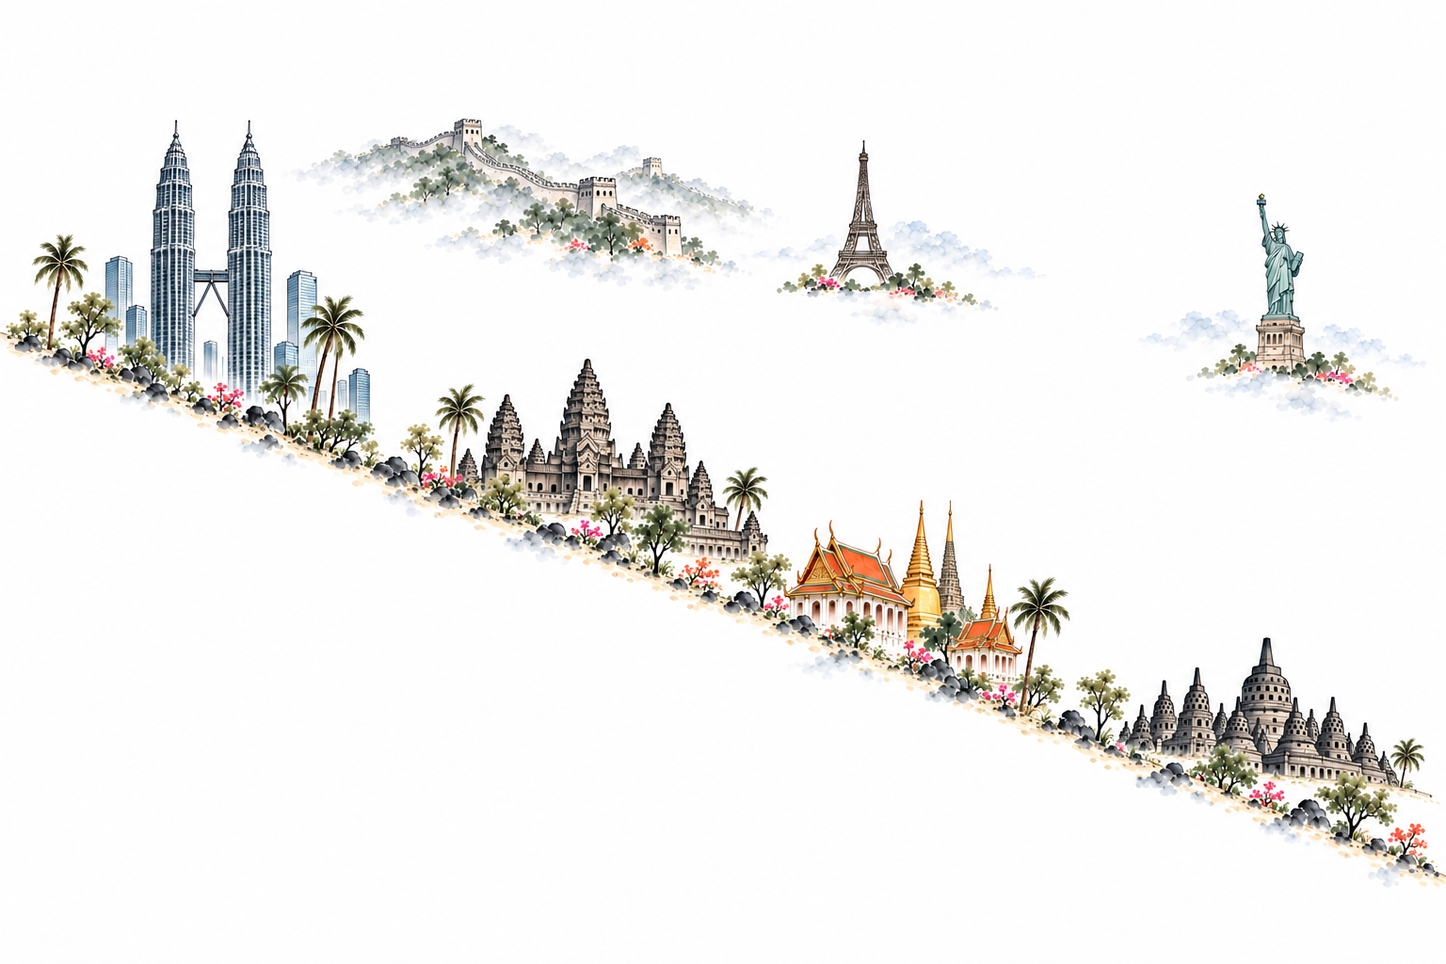
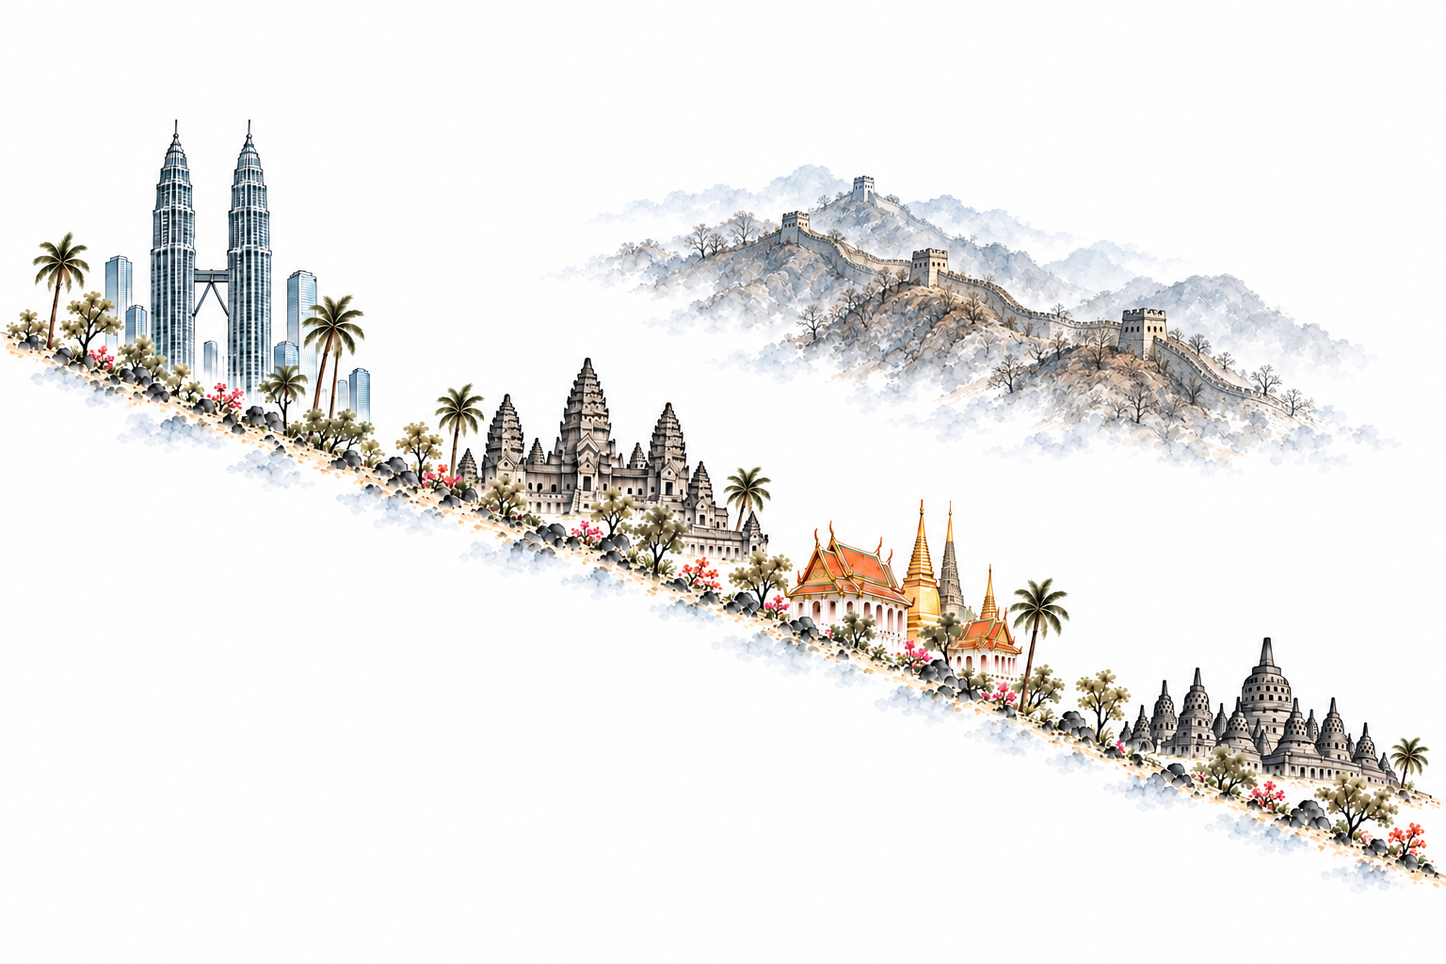
Refine distant Great Wall and assemble v26 landing preview

Changed region(s): [[0.0, 0.1562, 1.0, 0.9375], [0.2188, 0.125, 0.9688, 0.5]]

diff --git a/docs/mockups/20261011_quarter-v26.html b/docs/mockups/20261011_quarter-v26.html
@@ -1,0 +1,87 @@
+<!doctype html>
+<html lang="en"><head><meta charset="utf-8"><meta name="viewport" content="width=device-width,initial-scale=1"><meta name="robots" content="noindex,nofollow"><title>Topic Atlas · Complete band atlas v26</title>
+<style>
+:root{--page:#eee5d2;--surface:#f7efdd;--ink:#35413a;--muted:#6c6c5b;--border:#cfc0a3;--gold:#ae7730}
+*{box-sizing:border-box}
+body{margin:0;background:var(--page);color:var(--ink);font:15px/1.6 system-ui,sans-serif}
+main{max-width:1440px;padding:20px 28px;margin:auto}
+header{display:flex;align-items:center;justify-content:space-between;gap:16px;flex-wrap:wrap}
+h1{font:700 30px 'Songti SC',serif;margin:4px 0}
+small{color:var(--muted)}a{color:var(--gold)}
+.tools{display:flex;gap:10px;align-items:center;flex-wrap:wrap}
+button{font:inherit;color:inherit;cursor:pointer;background:var(--surface);border:1px solid var(--border);border-radius:10px;padding:9px 14px}
+button:focus-visible,a:focus-visible{outline:3px solid var(--gold);outline-offset:3px}
+/* The whole atlas is one SVG with a fixed 1536 x 1024 coordinate system.
+   It scales as a unit, so circles stay circular and vignettes never drift
+   apart or overlap differently on another screen ratio. */
+.atlas{width:min(100%,calc((100svh - 230px) * 1.5));min-width:min(100%,640px);margin:18px auto;border-radius:18px;overflow:hidden;background:#eee3cb}
+.atlas svg{display:block;width:100%;height:auto;cursor:pointer;-webkit-tap-highlight-color:transparent}
+.scope{display:grid;grid-template-columns:repeat(6,minmax(0,1fr));gap:9px}
+.scope button{text-align:left;padding:10px 12px}
+.scope b{display:block;font:700 23px 'Songti SC',serif}
+.scope span{font-size:12px;color:var(--muted)}
+.scope button[aria-pressed=true]{background:#e6d4a3;border:2px solid #9f7029;padding:9px 11px}
+.status{margin:10px 0;color:var(--muted)}
+.notes{font-size:13px;color:var(--muted)}
+#sel path{transition:opacity .25s}
+body.dark{--page:#202622;--surface:#303831;--ink:#eee5d1;--muted:#c9c0ae;--border:#566153;--gold:#e6bf73}
+body.dark .scope button[aria-pressed=true]{background:#665536;color:#fff1d6}
+body.dark .atlas{box-shadow:0 0 0 1px #786b53}
+@media(max-width:900px){main{padding:14px}h1{font-size:26px}.scope b{font-size:21px}.scope button{padding:8px}.scope button[aria-pressed=true]{padding:7px}}
+@media(max-width:600px){main{padding:12px}.atlas{min-width:0;width:100%}.scope{grid-template-columns:repeat(3,minmax(0,1fr))}.tools{font-size:12px}.notes{font-size:12px}}
+@media(prefers-reduced-motion:reduce){#sel path{transition:none}}
+</style></head><body><main>
+<header><div><small>BVSS MTL CL UNIT · DESIGN STUDY 26</small><h1>谈天说地 · Topic Atlas</h1></div>
+<div class="tools"><button id="guide" aria-pressed="false">Show positioning guide</button><button id="theme" aria-pressed="false">Dark surroundings</button><a href="20261010_quarter-v25.html">v25</a><a href="20261011_atlas-moodboard.html">Photo references</a><a href="20261010_quarter-v23.html">v23</a><a href="20261010_quarter-v22.html">v22</a><a href="20261010_quarter-v21.html">v21</a><a href="20261010_quarter-v20.html">v20 concentric</a><a href="20261010_quarter-v13.html">v13 painting</a><a href="20261010_modular-v19.html">v19 sprites</a><a href="20261010_design-history.html">Design history</a></div></header>
+<div class="atlas">
+<svg id="map" viewBox="0 0 1536 1024" role="img" aria-label="Ink and watercolour atlas in parallel diagonal bands from personal life at bottom-left, through family, school, community and Singapore, to ASEAN neighbours and world landmarks.">
+<defs>
+ <radialGradient id="paperA" cx="30%" cy="35%" r="60%"><stop offset="0" stop-color="#faf5e9" stop-opacity=".7"/><stop offset="1" stop-color="#faf5e9" stop-opacity="0"/></radialGradient>
+ <radialGradient id="paperB" cx="95%" cy="85%" r="50%"><stop offset="0" stop-color="#d2b990" stop-opacity=".22"/><stop offset="1" stop-color="#d2b990" stop-opacity="0"/></radialGradient>
+ <filter id="soft" x="-20%" y="-20%" width="140%" height="140%"><feGaussianBlur stdDeviation="26"/></filter>
+ <filter id="mist" x="-20%" y="-20%" width="140%" height="140%"><feGaussianBlur stdDeviation="14"/></filter>
+ <filter id="ink"><feColorMatrix type="saturate" values=".72"/></filter>
+ <filter id="glow" x="-10%" y="-10%" width="120%" height="120%"><feColorMatrix type="saturate" values=".72"/><feGaussianBlur stdDeviation="0"/></filter>
+</defs>
+<rect width="1536" height="1024" fill="#eee3cb"/><rect width="1536" height="1024" fill="url(#paperA)"/><rect width="1536" height="1024" fill="url(#paperB)"/>
+<g id="tint" filter="url(#soft)"></g>
+<g id="sel" filter="url(#soft)"></g>
+<g id="washes" filter="url(#mist)" fill="none" stroke-linecap="round"></g>
+<g id="art" filter="url(#ink)"></g>
+<g id="guides" style="display:none"></g>
+</svg>
+</div>
+<nav class="scope" aria-label="Expanding topic scope"></nav><p class="status" aria-live="polite"></p>
+<p class="notes">Review draft 26. Complete painted bands with upright subjects, loose planting and wispy atmosphere. The Great Wall is the sole distant motif above ASEAN neighbours. The school crest sits above its name, with students chatting in two groups of three. Ground alignment is approximate. Scope counts and controls remain prototypes.</p>
+</main><script>(()=>{'use strict';
+const W=1536,H=1024,NS='http://www.w3.org/2000/svg',BETA=22;
+const sb=Math.sin(BETA*Math.PI/180),cb=Math.cos(BETA*Math.PI/180);
+const D=[0,230,350,580,780,980,2200];
+const regions=[['geren','个人','修身',14],['jiating','家庭','齐家',3],['xiaoyuan','校园','治国',4],['shequ','社区','治国',5],['guojia','国家','治国',5],['shijie','天下','平天下',6]];
+const GROUND={"community-band": {"w": 1536, "h": 801, "slope": 22.4, "fy": 0.615, "x0": 0.01, "x1": 0.982}, "family-band": {"w": 1536, "h": 706, "slope": 19.1, "fy": 0.606, "x0": 0.142, "x1": 0.786}, "national-band": {"w": 1536, "h": 699, "slope": 19.5, "fy": 0.587, "x0": 0.0, "x1": 0.995}, "school-band": {"w": 1536, "h": 913, "slope": 19.3, "fy": 0.695, "x0": 0.002, "x1": 0.998}, "world-band": {"w": 1536, "h": 822, "slope": 20.2, "fy": 0.642, "x0": 0.007, "x1": 0.995}};
+// Whole bands are translated and uniformly scaled. No rotation: subjects stay upright.
+// [name, region index, left ground anchor x/y, scale]. Different widths and starts stagger the rows.
+const bands=[['world-band',5,630,150,.55],['national-band',4,250,230,.70],['community-band',3,0,330,.55],['school-band',2,150,650,.40],['family-band',1,350,820,.35]];
+const $=s=>document.querySelector(s),art=$('#art'),tint=$('#tint'),sel=$('#sel'),guides=$('#guides'),nav=$('.scope');
+const el=(tag,attrs)=>{const e=document.createElementNS(NS,tag);for(const k in attrs)e.setAttribute(k,attrs[k]);return e};
+const yAt=(d,x)=>H-(d-x*sb)/cb;
+const line=d=>`M-80 ${yAt(d,-80)}L1616 ${yAt(d,1616)}`;
+const band=(a,b)=>`M-80 ${yAt(a,-80)}L1616 ${yAt(a,1616)}L1616 ${yAt(b,1616)}L-80 ${yAt(b,-80)}Z`;
+const image=(href,x,y,w,h,reg)=>el('image',{href,x,y,width:w,height:h,preserveAspectRatio:'none','data-reg':reg});
+const colours=['#c9c4a6','#c4cfc8','#d2c4ac','#b9c8c6','#d0c6ad','#bccac7'];
+regions.forEach((r,i)=>{tint.append(el('path',{d:band(D[i],D[i+1]),fill:colours[i],opacity:'.16'}));sel.append(el('path',{d:band(D[i]+16,D[i+1]-16),fill:'#edbd55',opacity:'0','data-reg':r[0]}));});
+for(const [name,reg,x,gy,scale] of bands){const g=GROUND[name],m=Math.tan(g.slope*Math.PI/180),c=g.fy*g.h-m*g.w/2,y=gy-c*scale;
+ art.append(image(`assets-v26/${name}.webp`,x,y,g.w*scale,g.h*scale,regions[reg][0]));
+ guides.append(el('line',{x1:x,y1:gy,x2:x+g.w*scale,y2:gy+m*g.w*scale,stroke:'#c0392b','stroke-width':'3'}));}
+// Retain the owner-selected foreground reading pair and rock/flower bed.
+art.append(image('assets-v20/personal-bed.webp',-60,676,445*1.42,306*1.42,'geren'));
+art.append(image('assets-v20/personal-pair.webp',12,762,720*.43,594*.43,'geren'));
+D.slice(1,6).forEach(d=>guides.append(el('path',{d:line(d),fill:'none',stroke:'#896d43','stroke-width':'2','stroke-dasharray':'6 9'})));
+let selected='geren';
+for(const [id,name,motto,count] of regions){const b=document.createElement('button');b.type='button';b.dataset.reg=id;b.setAttribute('aria-label',`${name}, ${count} topics`);b.innerHTML=`<b>${name}</b><span>${motto} · ${count} 个话题</span>`;b.addEventListener('click',()=>{selected=id;paint()});nav.append(b);}
+function paint(){nav.querySelectorAll('button').forEach(b=>b.setAttribute('aria-pressed',String(b.dataset.reg===selected)));sel.querySelectorAll('path').forEach(p=>p.setAttribute('opacity',p.dataset.reg===selected?'.35':'0'));const r=regions.find(x=>x[0]===selected);$('.status').textContent=`${r[1]} · ${r[2]} · ${r[3]} 个话题`;}
+$('#map').addEventListener('click',e=>{const m=e.currentTarget.getScreenCTM();if(!m)return;const p=new DOMPoint(e.clientX,e.clientY).matrixTransform(m.inverse());const d=p.x*sb+(H-p.y)*cb,i=D.findIndex((v,k)=>d>=v&&d<D[k+1]);if(i>=0&&i<6){selected=regions[i][0];paint();}});
+$('#guide').addEventListener('click',e=>{const shown=guides.style.display==='none';guides.style.display=shown?'':'none';e.currentTarget.setAttribute('aria-pressed',String(shown));e.currentTarget.textContent=shown?'Hide positioning guide':'Show positioning guide';});
+$('#theme').addEventListener('click',e=>{const dark=document.body.classList.toggle('dark');e.currentTarget.setAttribute('aria-pressed',String(dark));});
+paint();
+})();</script></body></html>

diff --git a/docs/mockups/20261011_atlas-moodboard.html b/docs/mockups/20261011_atlas-moodboard.html
@@ -1,0 +1,1 @@
+<!doctype html><html><meta charset="utf-8"><meta name="viewport" content="width=device-width"><title>Atlas photographic references · v26</title><style>body{margin:0;background:#eee3cb;color:#38372e;font:16px/1.5 system-ui}main{max-width:1200px;margin:auto;padding:24px}h1{font-family:serif}.row{display:grid;grid-template-columns:repeat(3,1fr);gap:14px}figure{margin:0}img{width:100%;height:240px;object-fit:contain;background:#fff}small{display:block}a{color:#5c684f}@media(max-width:650px){.row{grid-template-columns:1fr}}</style><main><h1>Atlas · photographic reference</h1><p>Actual NParks photographs for consistent botanical shapes. Original photographs remain credited to NParks and the photographers named on each species page. Reference board only; photographs are not atlas artwork.</p><section><h2>Rain tree</h2><p>Broad umbrella crown; low spreading branches; fine leaflets.</p><div class="row"><figure><img src="https://www.nparks.gov.sg/-/media/ffw/protected/flora/3/1/3106/samanea_saman_jessica_teo-(2)_lowres.jpg" alt="NParks Rain tree photograph"><figcaption><a href="https://www.nparks.gov.sg/florafaunaweb/flora/3/1/3106">NParks species page and photo credit</a></figcaption></figure><figure><img src="https://www.nparks.gov.sg/-/media/ffw/protected/flora/3/1/3106/samanea_saman_soh_weijing_lowres.jpg" alt="NParks Rain tree photograph"><figcaption><a href="https://www.nparks.gov.sg/florafaunaweb/flora/3/1/3106">NParks species page and photo credit</a></figcaption></figure><figure><img src="https://www.nparks.gov.sg/-/media/ffw/migrated/round2/flora/3106/56fe8fd802ae4554a31924c49aecd88b.jpg" alt="NParks Rain tree photograph"><figcaption><a href="https://www.nparks.gov.sg/florafaunaweb/flora/3/1/3106">NParks species page and photo credit</a></figcaption></figure></div></section><section><h2>Frangipani</h2><p>Open sculptural branches; thick leaves at tips; five-petal flowers.</p><div class="row"><figure><img src="https://www.nparks.gov.sg/-/media/ffw/migrated/round2/flora/3074/279934a9ed62476e895adf14a97cb516.jpg" alt="NParks Frangipani photograph"><figcaption><a href="https://www.nparks.gov.sg/florafaunaweb/flora/3/0/3074">NParks species page and photo credit</a></figcaption></figure><figure><img src="https://www.nparks.gov.sg/-/media/ffw/migrated/round2/flora/3074/8d40d8b25ff94c9a85e15d8bfd87d695.jpg" alt="NParks Frangipani photograph"><figcaption><a href="https://www.nparks.gov.sg/florafaunaweb/flora/3/0/3074">NParks species page and photo credit</a></figcaption></figure><figure><img src="https://www.nparks.gov.sg/-/media/ffw/migrated/round2/flora/3074/840dacde72f040f5991e252523e33c7a.jpg" alt="NParks Frangipani photograph"><figcaption><a href="https://www.nparks.gov.sg/florafaunaweb/flora/3/0/3074">NParks species page and photo credit</a></figcaption></figure></div></section><section><h2>Hibiscus</h2><p>Shrub silhouette; toothed leaves; large flower and projecting staminal column.</p><div class="row"><figure><img src="https://www.nparks.gov.sg/-/media/ffw/migrated/round2/flora/2095/8833b4fd7a8746f0af69ece1ee36fe71.jpg" alt="NParks Hibiscus photograph"><figcaption><a href="https://www.nparks.gov.sg/florafaunaweb/flora/2/0/2095">NParks species page and photo credit</a></figcaption></figure><figure><img src="https://www.nparks.gov.sg/-/media/ffw/migrated/round2/flora/2095/c36f91de296b4d98b60283ec339e399d.jpg" alt="NParks Hibiscus photograph"><figcaption><a href="https://www.nparks.gov.sg/florafaunaweb/flora/2/0/2095">NParks species page and photo credit</a></figcaption></figure><figure><img src="https://www.nparks.gov.sg/-/media/ffw/migrated/round2/flora/2095/0b961344dd45498eb8c09d911328506e.jpg" alt="NParks Hibiscus photograph"><figcaption><a href="https://www.nparks.gov.sg/florafaunaweb/flora/2/0/2095">NParks species page and photo credit</a></figcaption></figure></div></section><section><h2>Bougainvillea</h2><p>Arching woody stems; papery coloured bracts, distinct from tiny true flowers.</p><div class="row"><figure><img src="https://www.nparks.gov.sg/-/media/ffw/migrated/round2/flora/1340/8efc811afa1043528ad1811dec9b288d.jpg" alt="NParks Bougainvillea photograph"><figcaption><a href="https://www.nparks.gov.sg/florafaunaweb/flora/1/3/1340">NParks species page and photo credit</a></figcaption></figure><figure><img src="https://www.nparks.gov.sg/-/media/ffw/protected/flora/1/3/1340/bougainvillea_x_buttiana_mahara_pauline_tay.jpg" alt="NParks Bougainvillea photograph"><figcaption><a href="https://www.nparks.gov.sg/florafaunaweb/flora/1/3/1340">NParks species page and photo credit</a></figcaption></figure><figure><img src="https://www.nparks.gov.sg/-/media/ffw/migrated/round2/flora/1340/205e07041ee3485494eec80c9e212422.jpg" alt="NParks Bougainvillea photograph"><figcaption><a href="https://www.nparks.gov.sg/florafaunaweb/flora/1/3/1340">NParks species page and photo credit</a></figcaption></figure></div></section><section><h2>Great Wall · Mutianyu winter reference</h2><p>Follow the winding stone ramparts and watchtowers over uneven rocky ridges. For the distant atlas motif, simplify the bare branches and dry scrub into a few loose ink marks; omit decorative flower beds and tropical planting. The photo records a winter view, rather than vegetation in every season.</p><div class="row"><figure><img src="references-v26/great-wall-mutianyu.jpg" alt="Actual Mutianyu Great Wall photograph with winding stone ramparts, winter ridges and bare vegetation"><figcaption>J. Samuel Burner, 11 February 2006. <a href="https://commons.wikimedia.org/wiki/File:Great_Wall_at_Mutianyu.jpg">Original photograph and attribution</a> · <a href="https://creativecommons.org/licenses/by/2.0/">CC BY 2.0</a>. Unmodified reference photograph, not landing-page artwork.</figcaption></figure></div></section></main></html>

diff --git a/docs/20261011_Codex_v26_preview.md b/docs/20261011_Codex_v26_preview.md
@@ -1,0 +1,44 @@
+# Codex v26 landing-page preview
+
+Updated October 11, 2026 by HOD/MTL Mdm Chun Kai Xin
+
+## Changed
+
+Owner requested removal of the Eiffel Tower and Statue of Liberty, more 错落有致 for the farther-away motif, fewer plants around the Great Wall based on actual photos, and a view of the whole landing page.
+
+- Updated `docs/mockups/masters-v22/world-band.png`: ASEAN row preserved, Great Wall off-centre in the distance with staggered towers, rocky muted ridges, bare branches and no decorative flower beds. The two western motifs are absent. Earlier masters remain in Git history.
+- New `docs/mockups/20261011_atlas-moodboard.html`: preserves the prior flora references and adds an actual Great Wall photo, credit and licence. Earlier moodboard is unchanged.
+- New `docs/mockups/20261011_quarter-v26.html`: complete landing-page review assembled from five band masters and the existing personal reading corner. Whole bands use uniform scaling and translation only, so buildings and people stay upright. Sizes and starts vary; there is no automatic rotation to hide geometry errors. The placement guide shows measured ground lines. Exact template alignment remains approximate.
+- New transparent cuts and WebPs in `docs/mockups/assets-v26/`, with `ground.json`. Earlier v20 to v25 drafts, production and `data/content/` remain unchanged.
+- Full-page browser screenshot: `docs/mockups/20261011_quarter-v26-preview.jpg`.
+
+## Photo reference
+
+[Great Wall at Mutianyu](https://commons.wikimedia.org/wiki/File:Great_Wall_at_Mutianyu.jpg), J. Samuel Burner, photographed 11 February 2006, [CC BY 2.0](https://creativecommons.org/licenses/by/2.0/). Unmodified local reference: `docs/mockups/references-v26/great-wall-mutianyu.jpg`. This winter photograph shows winding stone ramparts over ridges with bare vegetation. Sparse rocky treatment is an art interpretation of that seasonal reference, not a claim that every Great Wall section is sparsely vegetated throughout the year. The photograph is displayed on the reference board, not in the landing-page artwork.
+
+## Validation
+
+The updated world master is 1536 x 1024 and its cut measures 20.2 degrees, within the approximate 3 degree tolerance from 22. The unchanged cutter and measurement script produced all v26 assets. Full list: family 19.1, school 19.3, community 22.4, national 19.5, world 20.2 degrees.
+
+Browser checks passed at 1280 x 800, 1024 x 768 and 375 x 812: six scope buttons, no horizontal overflow, atlas scales as one SVG. Scope selection, positioning guide and dark surroundings were checked. Browser console had no warnings or errors. Restored normal viewport and left the review page open. Existing owner's port 8000 server was reused and not stopped.
+
+Art layout remains for owner review. Scope counts are prototypes and no production topic routes are wired in this review. The full band masters retain approximate ground geometry and near-white pixel variation documented in the earlier handoff.
+
+## Exact latest image edit
+
+Built-in imagegen. References in order: v13 style painting, 22 degree template, previous world master, actual Mutianyu photograph. Selected output: `exec-1752a72d-d9e0-45bf-a672-3d1501d176f5.png`.
+
+```text
+Use case: one TILE of a modular educational atlas; tiles are placed side by side along a diagonal band.
+Image 1 is the STYLE reference: match its fine charcoal ink contours, restrained desaturated watercolour, sparse natural facial marks, small flowering shrubs and grey ink rocks along the footing, and soft grey-blue 大写意 mist wisps beneath the ground.
+Image 2 is the GEOMETRY reference; do not draw its line. The ground strip must lie exactly along that line: it enters at the LEFT edge at the line's height, slopes down to the right at 22 degrees, and exits at the RIGHT edge at the line's height. The ground strip runs the full width, edge to edge, so this tile joins seamlessly with identical neighbouring tiles. Keep the ground strip narrow: low shrubs, rocks, grass and a little mist only.
+The subject stands ON that sloped ground strip, roughly centred. Buildings, people, trees and poles stand perfectly vertical and are never tilted; only the ground slopes, and buildings step down along it. Nothing important touches the left or right edge except the ground strip itself.
+Plain flat pure white background (#FFFFFF) everywhere else. Similar pictorial scale to image 1, no vanishing-point perspective. Restrained palette, not saturated.
+No text, letters, numbers, logos, signage, borders, frames, paper texture, colour wash or cast shadow in the empty background. Landscape 1536x1024.
+
+EDIT IMAGE 3, the current complete world band. Preserve the ASEAN main diagonal exactly: Petronas Twin Towers, Angkor Wat, Thai temple and Borobudur remain upright in their existing positions along the continuous ground, with the same scale, fine charcoal contours and pale desaturated watercolour. Keep ground geometry close to Image 2's 22 degree line.
+
+Owner's latest direction: REMOVE the Eiffel Tower and Statue of Liberty completely, including their little ground beds and mist clusters, restoring pure white in those areas. Only the Great Wall remains as the distant non-ASEAN motif. Recompose the Great Wall farther back and OFF-CENTRE in the upper middle-right white space, roughly spanning x=650 to x=1250, above the open gap between Angkor Wat and the Thai temple. Make its watchtowers and pale hills 错落有致: uneven heights, varied spacing and scale, a loose winding sweep that rises and falls over two or three pale hills, no level row, no rigid evenly-spaced towers, no vertical alignment with the ASEAN landmarks below. It should feel like one modest distant glimpse, with generous white breathing space all around. Keep it recognisable with grey battlements and watchtowers. Loose 大写意 hill washes and a few sparse wispy mist strokes, no dense clouds or dense planting. No added landmarks, text, signs or frame. Pure flat white #FFFFFF landscape 1536x1024.
+
+Latest owner correction: Image 4 is an ACTUAL PHOTOGRAPH of the Great Wall at Mutianyu. Use it for the wall and hillside structure. Edit ONLY the distant Great Wall motif in Image 3: replace its decorative flowering plant bed and clustered leafy trees with bare, rocky muted grey-brown ridges, exposed stone wall and watchtowers, and only a few tiny dry scrub or leafless branch marks. NO FLOWERS, NO FLOWERING SHRUBS, NO TROPICAL PLANTS, NO GREEN TREE CLUSTERS around the Great Wall. The winding crenellated wall is the focus, not planting. Keep its off-centre staggered tower composition in the upper middle-right, with a light loose 大写意 ridge wash and just one or two wispy atmospheric strokes. Preserve the ASEAN main diagonal and all its landmark positions exactly; it is not being repainted. Eiffel Tower and Statue of Liberty remain absent. Pure white 1536x1024.
+```

diff --git a/CLAUDE.md b/CLAUDE.md
@@ -85,3 +85,5 @@ v24 (`docs/mockups/20261010_quarter-v24.html`): each sprite's ground slope is me
 v25 (`docs/mockups/20261010_quarter-v25.html`): rows staggered 错落有致 (`SIZE`, `LIFT`, `GAPW` patterns offset per row), 个人 corner lowered. Codex handoff for new 22 degree sprites: `docs/20261010_Codex_v25_handoff.md`.
 
 Band master follow-up, October 11 2026: owner changed individual sprite generation to one complete image per band, with looser 大写意 planting and sparse wispy clouds. Five review masters are in `docs/mockups/masters-v22/`; exact prompts, measured slopes and geometry limitations are in `docs/20261011_Codex_band-masters_handoff.md`. School crest sits above the name on a facade based on owner photos; six students form two platonic groups of three, girls with tied hair and smooth unbroken skirt-like culotte fronts, no head coverings. 世界 uses an ASEAN diagonal with the Great Wall, Eiffel Tower and Statue of Liberty farther away. No draft or production integration yet; exact template endpoint alignment remains approximate.
+
+World band revision, October 11 2026: owner removed the Eiffel Tower and Statue of Liberty for now. The Great Wall is the only farther-away motif, placed off-centre above the ASEAN row with uneven tower heights and spacing for 错落有致. A credited actual Mutianyu winter photo guides bare rocky ridges and sparse scrub rather than decorative flowers. Updated `world-band.png` measures 20.2 degrees. Owner requested the whole landing page, now assembled in new review draft `docs/mockups/20261011_quarter-v26.html`, with cuts in `assets-v26/` and a new photo moodboard. Earlier drafts and production remain unchanged. Prompt, photo credit and responsive checks: `docs/20261011_Codex_v26_preview.md`.

diff --git a/docs/20261011_Codex_band-masters_handoff.md b/docs/20261011_Codex_band-masters_handoff.md
@@ -22,7 +22,7 @@ Cuts and measurement files are temporary in `/tmp/topicatlas-v22-cuts/`, not int
 | school-band | 19.3 | -2.7 |
 | community-band | 22.4 | +0.4 |
 | national-band | 19.5 | -2.5 |
-| world-band | 20.6 | -1.4 |
+| world-band | 20.2 | -1.8 |
 
 All selected candidates meet the requested approximate 3 degree slope tolerance. Earlier out-of-tolerance candidates were regenerated. This alpha-based robust fit measures the bottom of solid paint; it does not certify each local segment or exact endpoint placement.
 
@@ -134,7 +134,7 @@ Exact geometric construction: ground points at x=0 y=330, x=384 y=485, x=768 y=6
 Small separated landmark groups step down the diagonal: shophouses at x220 ground y419, MBS at x520 ground y540, Merlion at x790 ground y649, three Supertrees at x1030 ground y746, and ArtScience lotus with ONE tiny sampan at x1320 ground y863. Maximum landmark height 280 pixels. Water appears only as a few local short brushstrokes along the same diagonal. No horizontal waterfront or second ground strip.
 ```
 
-### world-band
+### world-band (initial committed version, superseded by the v26 follow-up)
 
 Selected output: `exec-e70352fb-1e56-4acd-bddb-b8f1cb09a890.png`.
 
